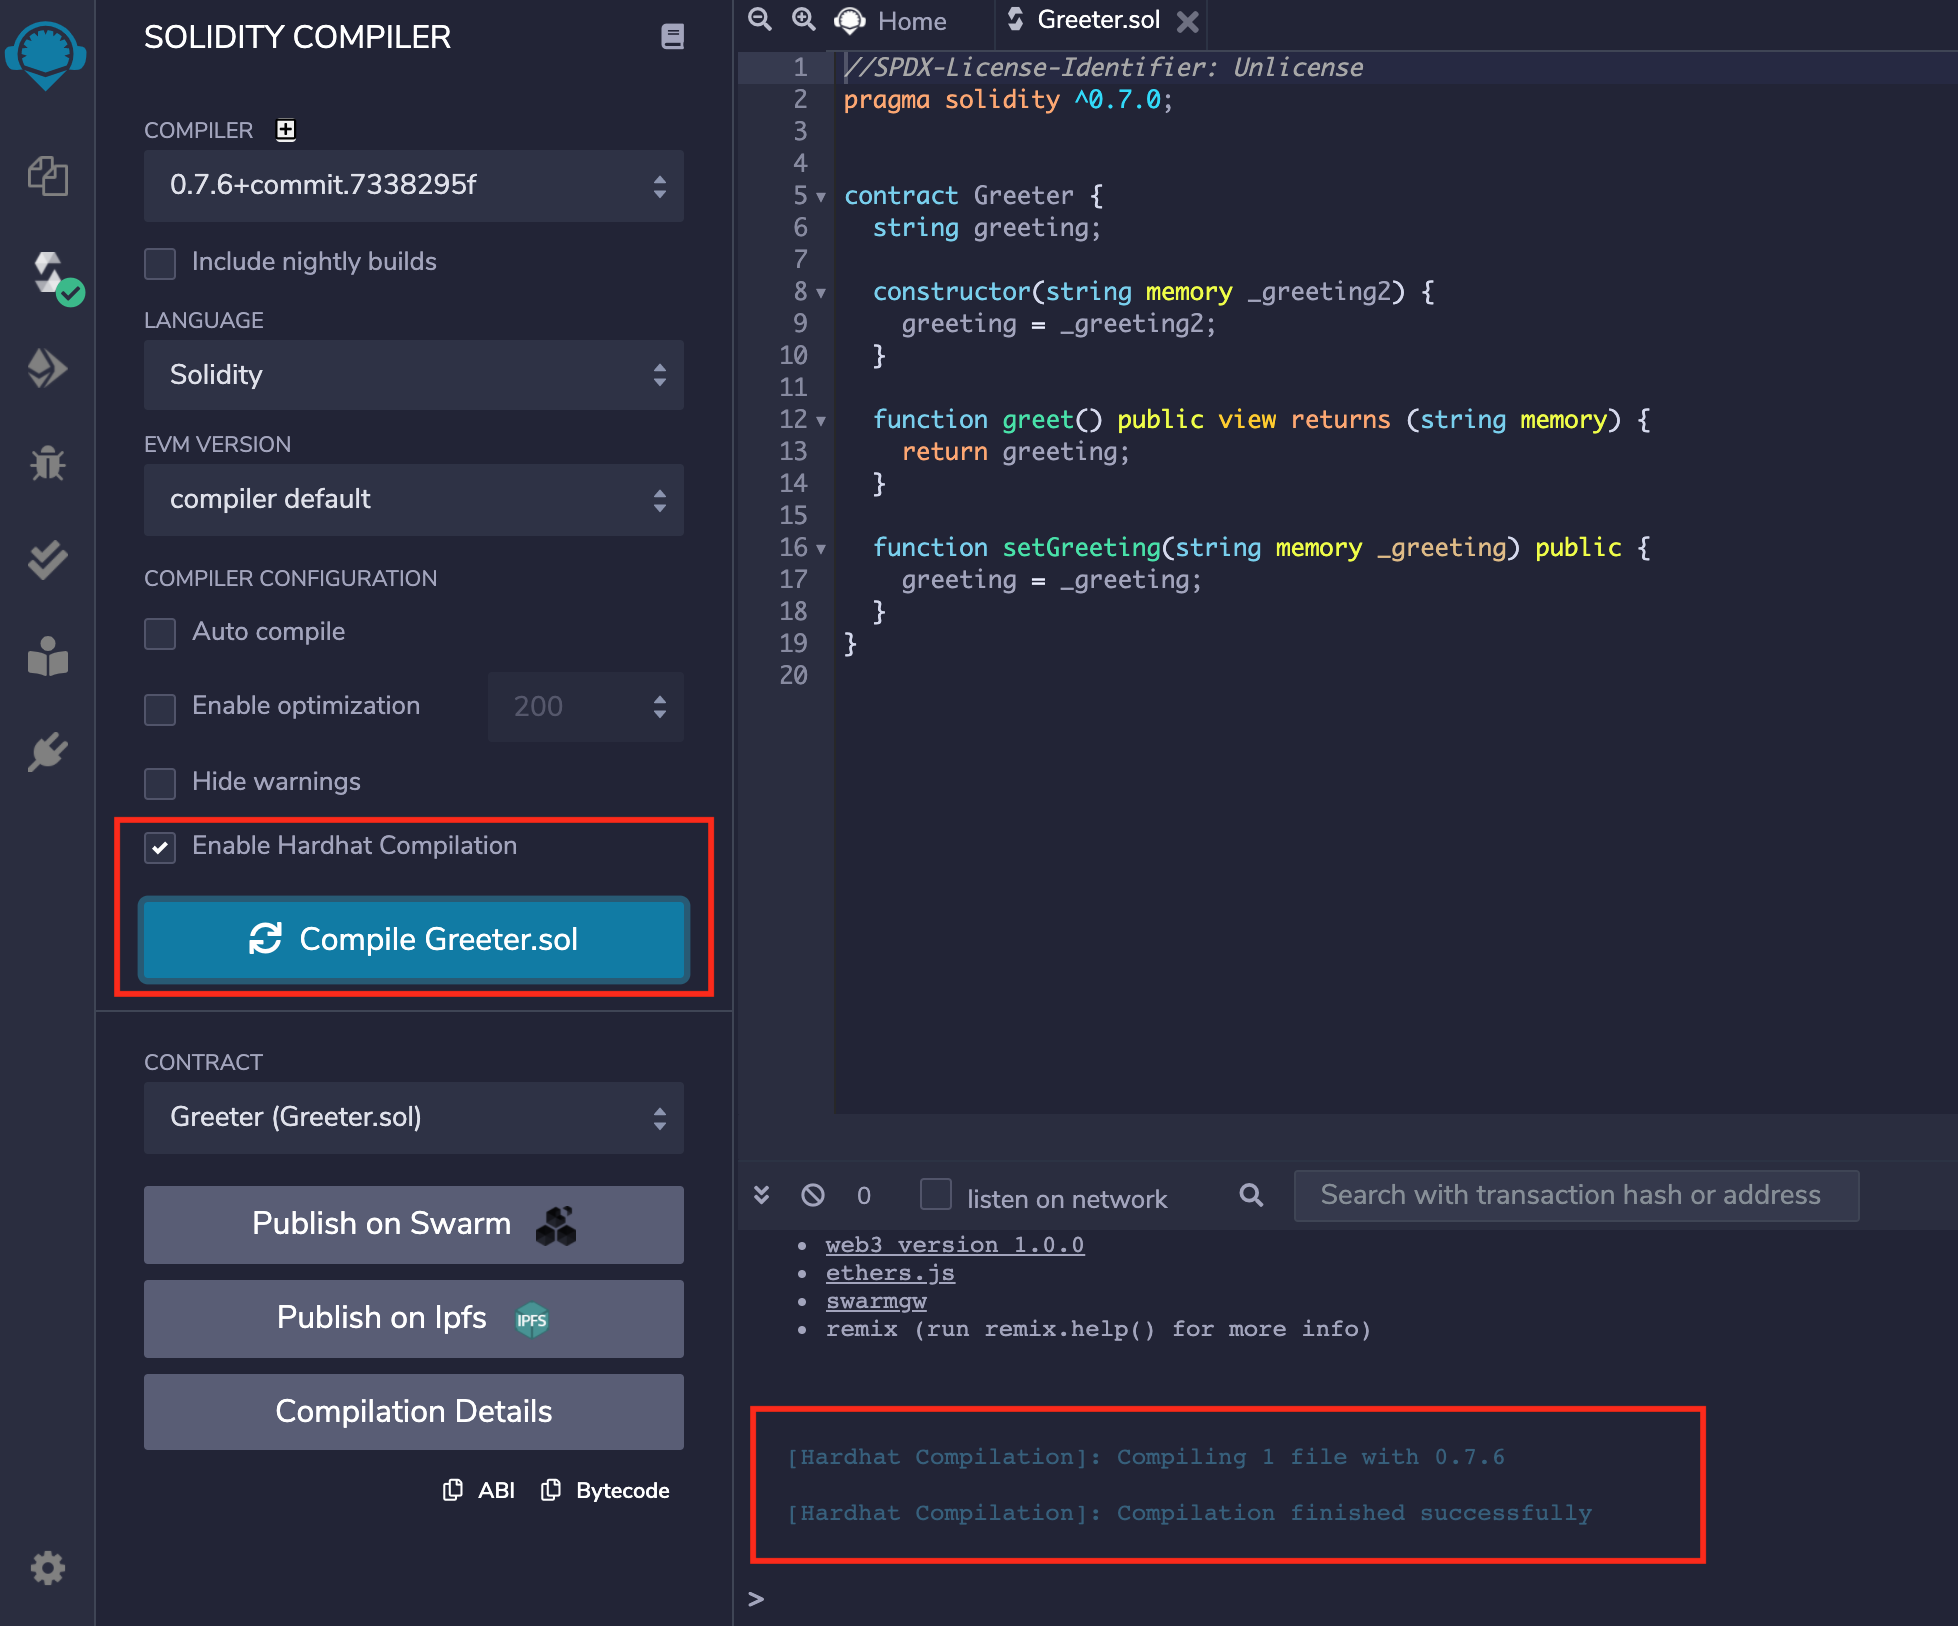
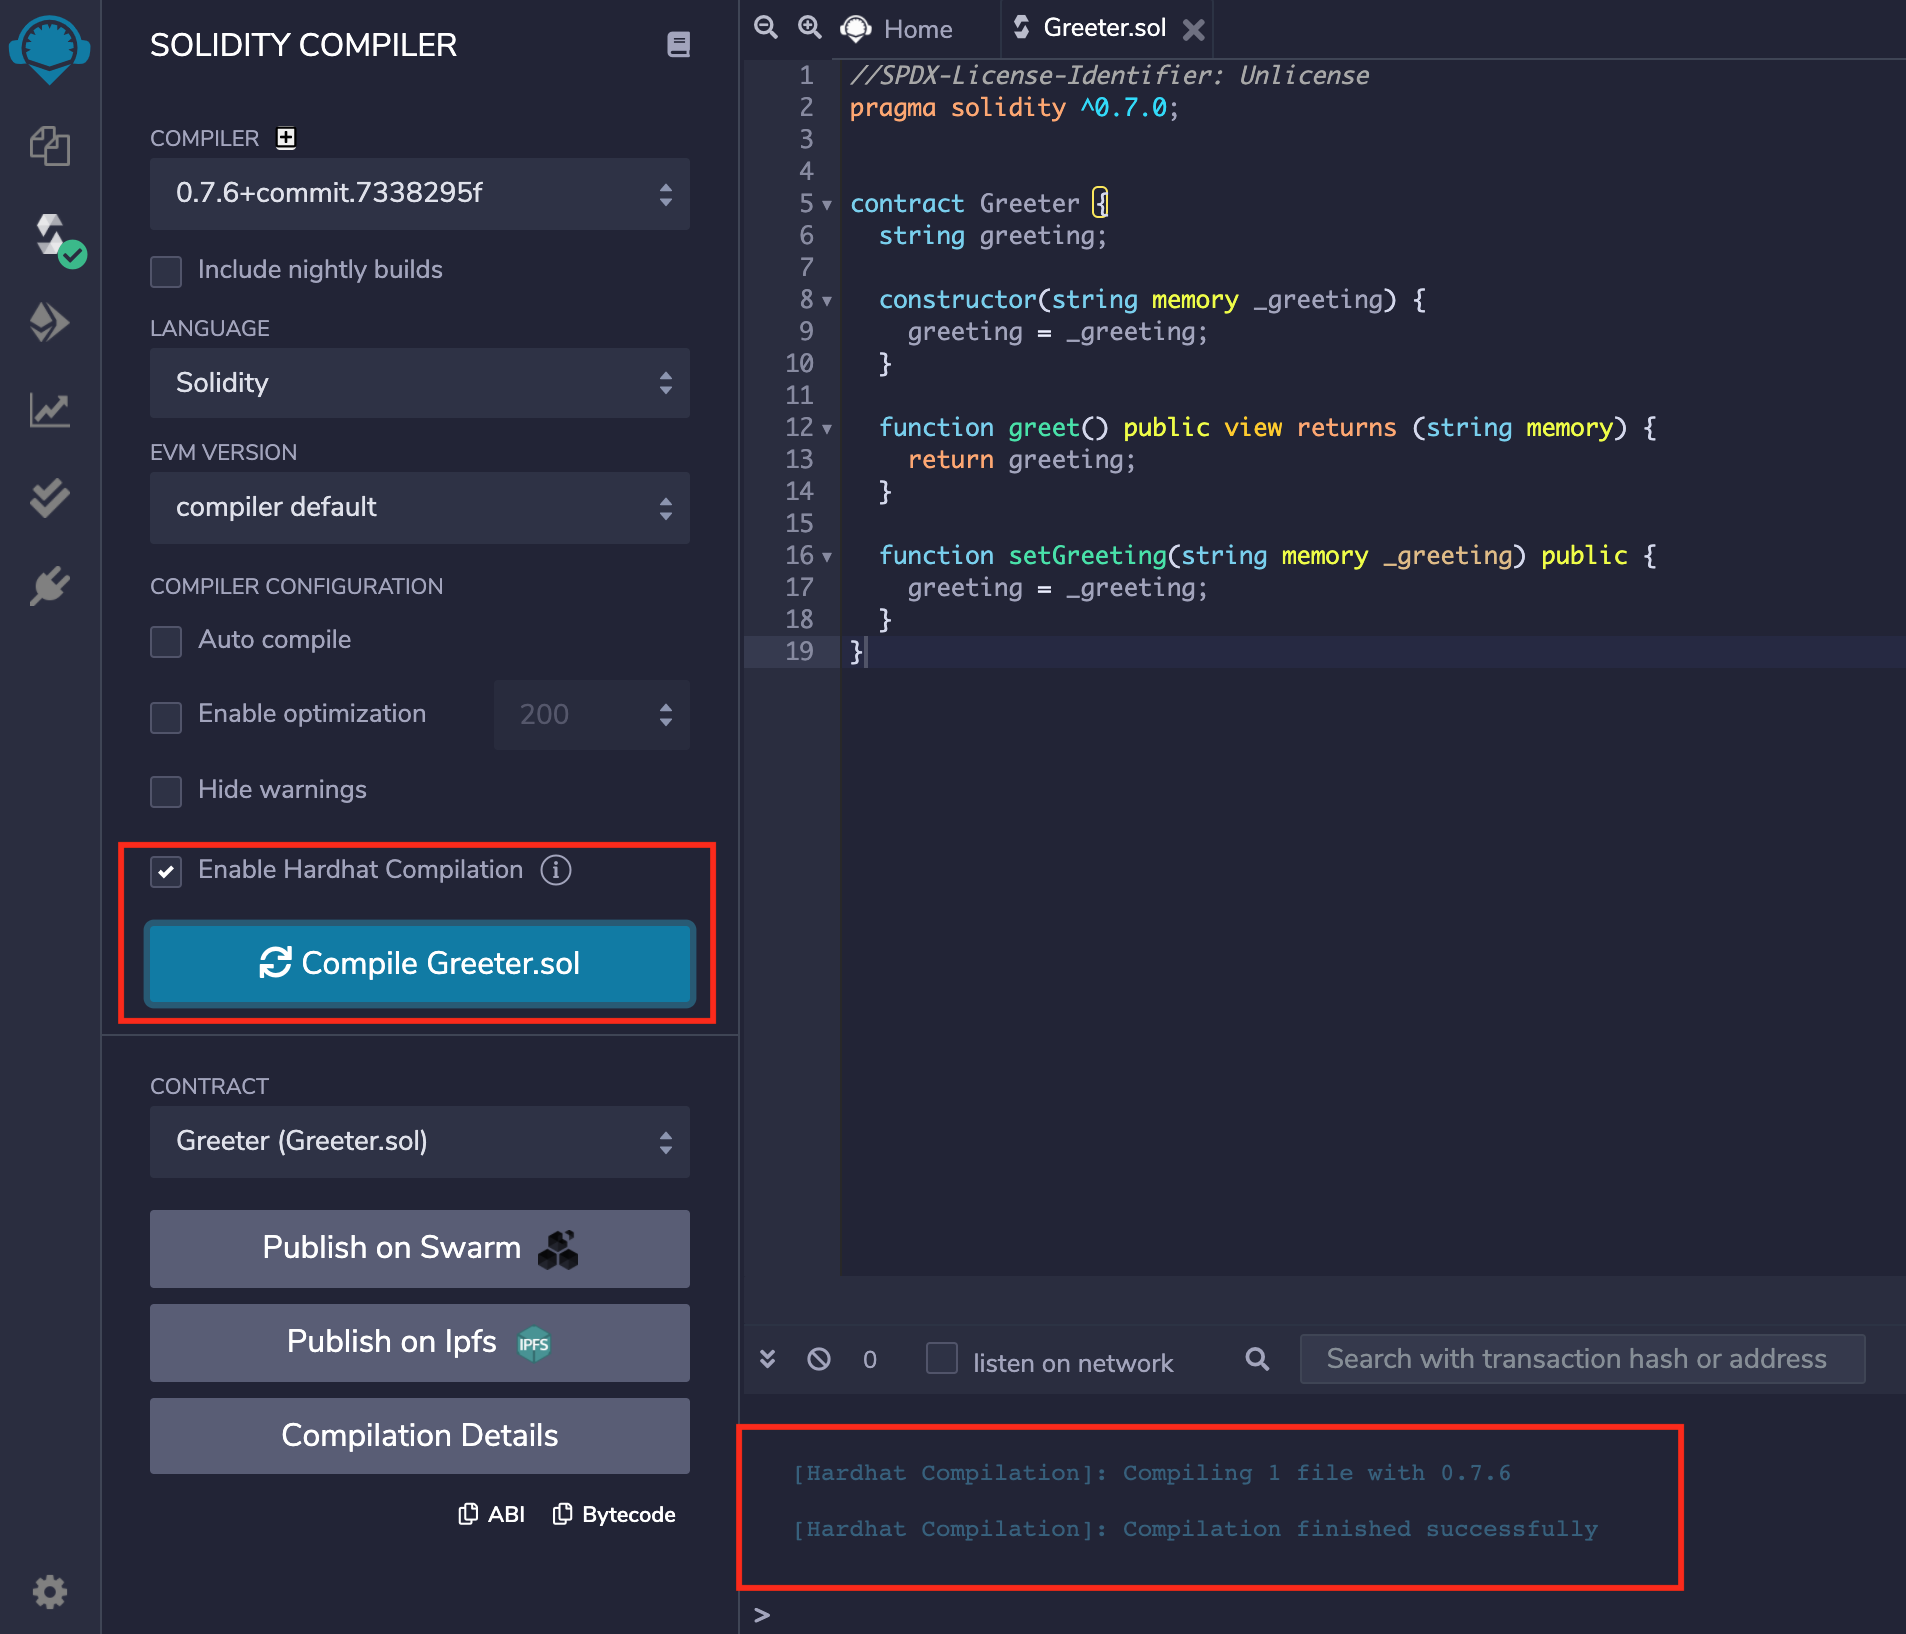
hardhat doc updated

diff --git a/docs/hardhat.md b/docs/hardhat.md
@@ -37,6 +37,8 @@ If a hardhat project is shared through remixd and `localhost` workspace is loade
 
 ![](images/a-hardhat-compilation.png)
 
+There is an info icon along side the label which redirects to a specific section of Remix official documentation which explains how to use it.
+
 One can check this box to run the compilation for Hardhat along with the Remix using the compiler configuration in `Solidity Compiler` plugin.
 
 On clicking `Compile` button, a file with `remix-compiler.config.js` will be created on the project root which will be storing compiler configuration set in Remix's `Solidity Compiler` plugin. It is passed to Hardhat for compilation.
